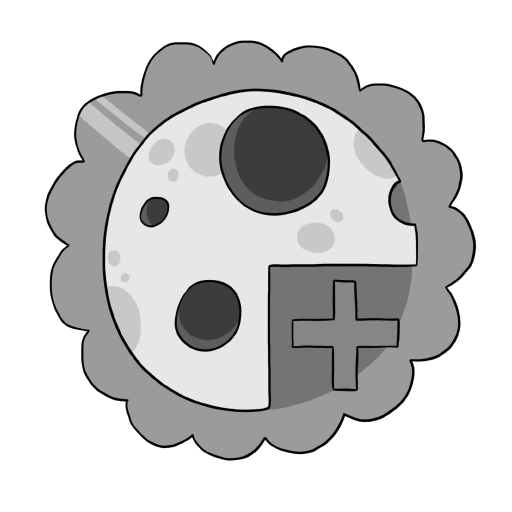
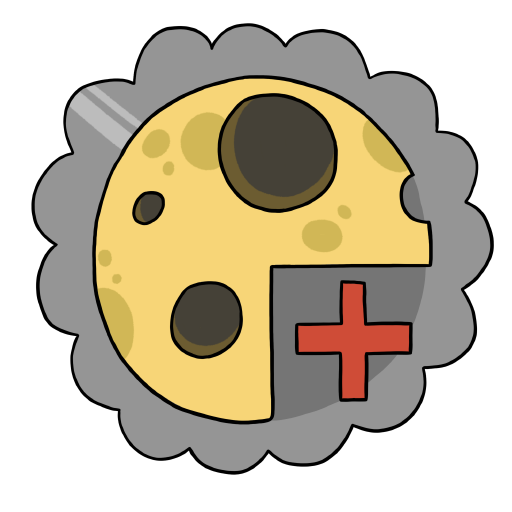
ui game over update

diff --git a/src/Scene.cpp b/src/Scene.cpp
@@ -227,13 +227,11 @@ bool Scene::PostUpdate()
 	
 	case SceneID::GAME_OVER:
 		if (loseTexture != nullptr) {
-			SDL_Rect sourceRect = loseAnimSet.GetCurrentFrame();
+			SDL_FRect destRect = { 0, 0, 1280, 720 };
 
-			SDL_FRect srcFRect = { (float)sourceRect.x, (float)sourceRect.y, (float)sourceRect.w, (float)sourceRect.h };
-
-			SDL_RenderTexture(Engine::GetInstance().render->renderer, loseTexture, &srcFRect, NULL);
-		}
-		Engine::GetInstance().render->DrawText("YOU LOST", 440, 100, 400, 100, { 255, 0, 0, 255 });
+			SDL_RenderTexture(Engine::GetInstance().render->renderer, loseTexture, NULL, &destRect);
+		}/*
+		Engine::GetInstance().render->DrawText("YOU LOST", 440, 100, 400, 100, { 255, 0, 0, 255 });*/
 
 		Engine::GetInstance().uiManager->PostUpdate();
 		break;
@@ -1005,19 +1003,29 @@ void  Scene::PostUpdateLevel() {
 void Scene::LoadGameOver() {
 	LOG("Loading Game Over Screen");
 	Engine::GetInstance().audio->PlayMusic("Assets/Audio/Music/PREV/losemusic.wav");
-	loseTexture = Engine::GetInstance().textures->Load("Assets/Screens/gameOver_screen.png");
+	loseTexture = Engine::GetInstance().textures->Load("assets/UI/GameOver/UI_GameOver_.png");
 
-	std::unordered_map<int, std::string> aliases;
-	aliases[4] = "play";
 
-	loseAnimSet.LoadFromTSX("Assets/Maps/PREV/lose.tsx", aliases);
-
-	loseAnimSet.SetCurrent("play");
 	 Engine::GetInstance().audio->PlayMusic("Assets/Audio/Music/PREV/losemusic.wav");
 
-	SDL_Rect btnPos = { 1000, 650, 250, 50 };
-	Engine::GetInstance().uiManager->CreateUIElement(UIElementType::BUTTON, 9, "BACK TO TITLE ->", btnPos, this);
+	/*SDL_Rect btnPos = { 1000, 650, 250, 50 };
+	Engine::GetInstance().uiManager->CreateUIElement(UIElementType::BUTTON, 9, "BACK TO TITLE", btnPos, this);*/
 
+	 SDL_Texture* buttonTitleNormal = Engine::GetInstance().textures->Load("assets/UI/Pause/UI_Pause_ButtonQuit1_01.png");
+	 SDL_Texture* buttonTitleClicked = Engine::GetInstance().textures->Load("assets/UI/Pause/UI_Pause_ButtonQuitPressed_01.png");
+
+	 SDL_Rect btnPos = { 1000, 650, 200, 50 };
+
+	 Engine::GetInstance().uiManager->CreateUIElement(
+		 UIElementType::BUTTON,
+		 9,
+		 "",
+		 btnPos,
+		 this,
+		 SDL_Rect{ 0,0,0,0 },
+		 buttonTitleNormal,
+		 buttonTitleClicked
+	 );
 }
 
 void Scene::UpdateGameOver(float dt) {
